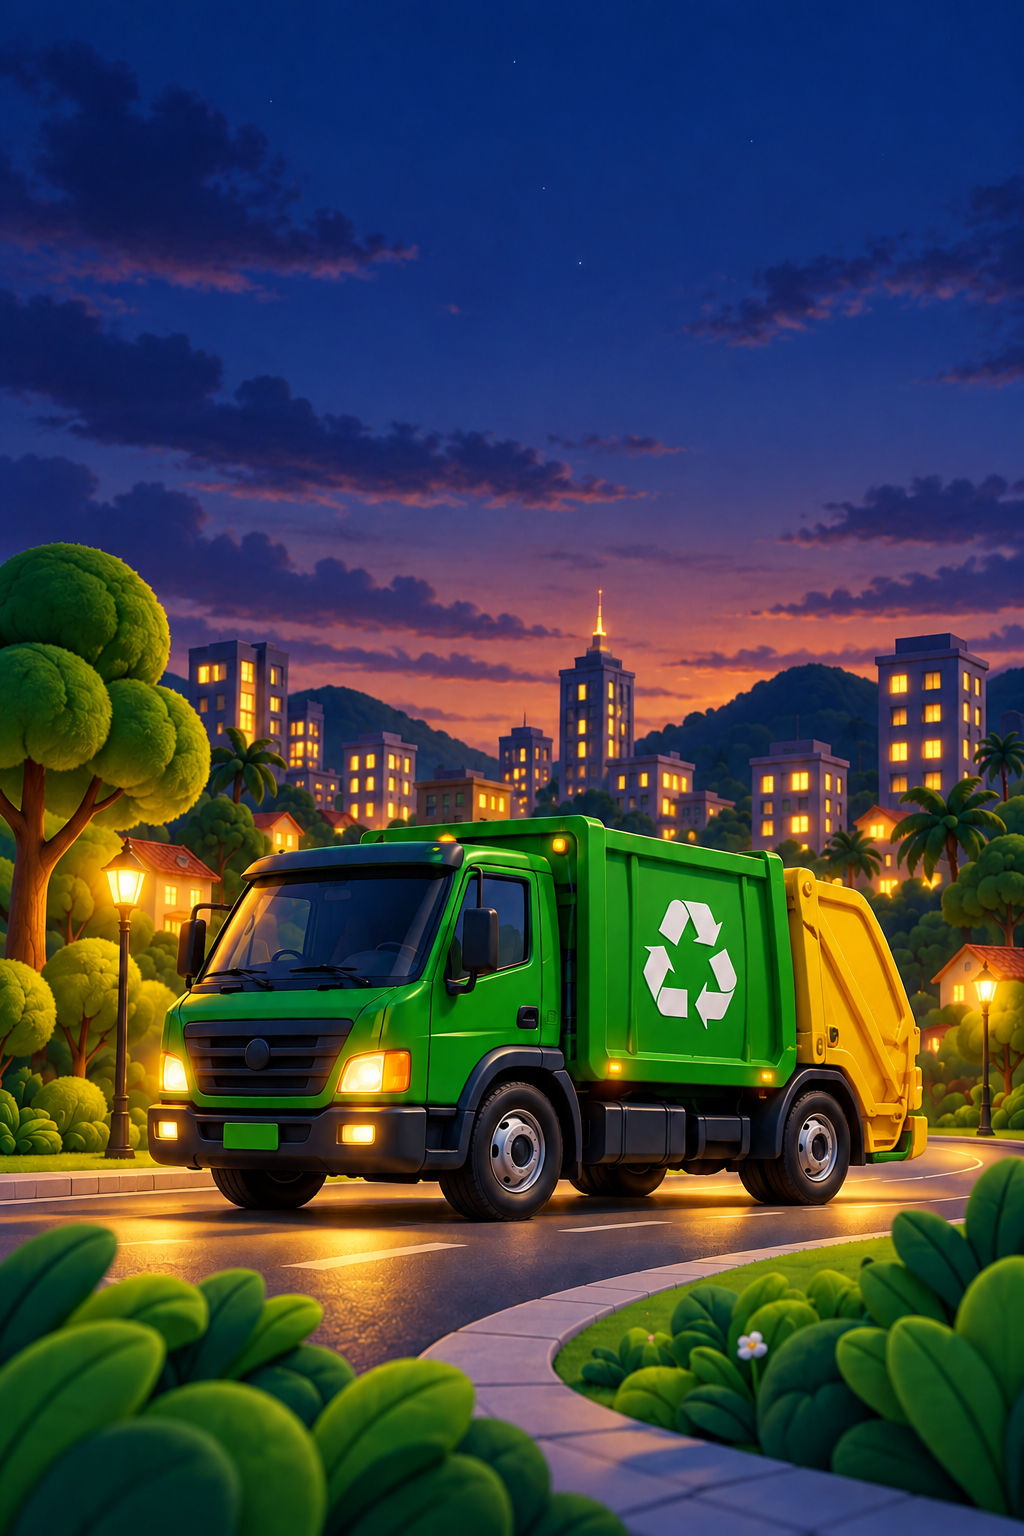
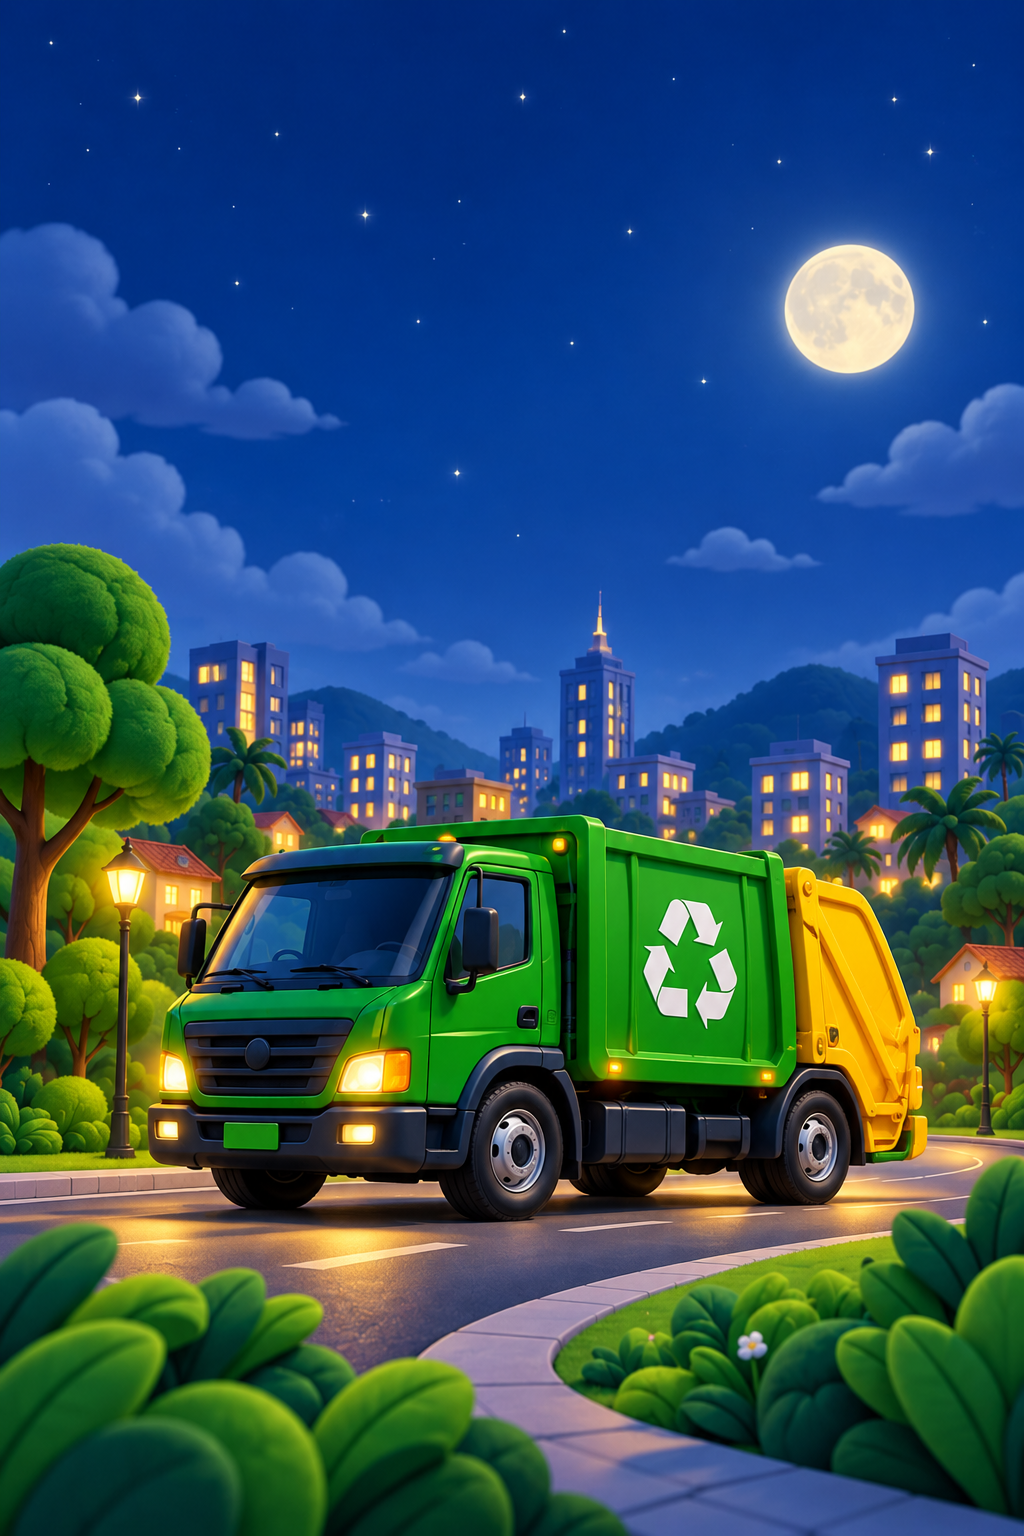
Keep 6 PM twilight and fade to supplied night scenery at 7 PM (#12)
* Use supplied full-night scenery from 7 PM Philippine time

* Record verified twilight and night previews

---------

diff --git a/flutter_sundo/test/time_theme_test.dart b/flutter_sundo/test/time_theme_test.dart
@@ -65,14 +65,17 @@ void main() {
       (15, 0, SundoDayPeriod.afternoon, SundoEnvironment.noon),
       (16, 59, SundoDayPeriod.afternoon, SundoEnvironment.noon),
       (17, 0, SundoDayPeriod.afternoon, SundoEnvironment.sunset),
-      (18, 0, SundoDayPeriod.evening, SundoEnvironment.night),
+      (18, 0, SundoDayPeriod.evening, SundoEnvironment.twilight),
       (23, 59, SundoDayPeriod.evening, SundoEnvironment.night),
     ];
     for (final (hour, minute, period, environment) in cases) {
       final mood = SundoTimeMood(DateTime(2026, 10, 5, hour, minute));
       expect(mood.period, period, reason: '$hour:$minute');
       expect(mood.environment, environment, reason: '$hour:$minute');
-      expect(mood.isNight, environment == SundoEnvironment.night);
+      expect(
+          mood.isNight,
+          environment == SundoEnvironment.night ||
+              environment == SundoEnvironment.twilight);
       expect(
           mood.greeting,
           hour < 12
@@ -169,9 +172,149 @@ void main() {
         SundoEnvironment.sunset);
     final afterSunset = SundoTimeMood.fromInstant(sunset);
     expect(afterSunset.isNight, isTrue);
-    expect(afterSunset.environment, SundoEnvironment.night);
+    expect(afterSunset.environment, SundoEnvironment.twilight);
     // Local sunset can precede 6 PM: the afternoon greeting must not keep a sun.
     expect(afterSunset.greeting, 'Good Afternoon');
+  });
+
+  test('dark night starts at 7 PM and lasts until calculated sunrise', () {
+    final midnight = _phInstant(2026, 10, 7);
+    final sunrise =
+        midnight.add(SundoTimeMood.fromInstant(midnight).daylight.sunrise);
+    final cases = <(DateTime, bool)>[
+      (_phInstant(2026, 10, 7, 18), false),
+      (
+        _phInstant(2026, 10, 7, 18, 59, 59)
+            .add(const Duration(milliseconds: 999)),
+        false
+      ),
+      (_phInstant(2026, 10, 7, 19), true),
+      (_phInstant(2026, 10, 7, 23, 59, 59), true),
+      (midnight, true),
+      (sunrise.subtract(const Duration(microseconds: 1)), true),
+      (sunrise, false),
+      (_phInstant(2026, 10, 7, 12), false),
+      (_phInstant(2026, 10, 7, 17), false),
+    ];
+    for (final (instant, expected) in cases) {
+      final mood = SundoTimeMood.fromInstant(instant);
+      expect(mood.isDarkNight, expected,
+          reason: 'Philippine time ${mood.localTime}');
+      final rainy = SundoTimeMood(mood.now,
+          philippineTime: mood.localTime,
+          daylight: mood.daylight,
+          raining: true);
+      expect(rainy.isDarkNight, expected,
+          reason: 'Rain must retain the same dark-night timing.');
+    }
+    expect(
+        SundoTimeMood.fromInstant(_phInstant(2026, 10, 7, 18)).isNight, isTrue,
+        reason: 'The existing 6 PM scene is nighttime twilight.');
+    expect(SundoTimeMood.fromInstant(sunrise).isNight, isFalse);
+  });
+
+  test('7 PM dark-night boundary follows Philippine time in every timezone',
+      () {
+    for (final stamp in [
+      '2026-10-07T11:00:00Z',
+      '2026-10-07T19:00:00+08:00',
+      '2026-10-07T07:00:00-04:00',
+    ]) {
+      final mood = SundoTimeMood.fromInstant(DateTime.parse(stamp));
+      expect(mood.localTime.hour, 19);
+      expect(mood.localTime.day, 7);
+      expect(mood.isDarkNight, isTrue);
+    }
+    for (final stamp in [
+      '2026-10-07T10:59:59.999Z',
+      '2026-10-07T18:59:59.999+08:00',
+      '2026-10-07T06:59:59.999-04:00',
+    ]) {
+      final mood = SundoTimeMood.fromInstant(DateTime.parse(stamp));
+      expect(mood.localTime.hour, 18);
+      expect(mood.isNight, isTrue);
+      expect(mood.isDarkNight, isFalse);
+    }
+  });
+
+  test('scenery identity changes at 7 PM and stays stable across midnight',
+      () {
+    for (final raining in [false, true]) {
+      SundoTimeMood at(int day, int hour, [int minute = 0]) {
+        final mood = SundoTimeMood.fromInstant(
+            _phInstant(2026, 10, day, hour, minute));
+        return SundoTimeMood(mood.now,
+            philippineTime: mood.localTime,
+            daylight: mood.daylight,
+            raining: raining);
+      }
+
+      final twilight = at(7, 18);
+      final beforeDark = at(7, 18, 59);
+      final dark = at(7, 19);
+      final beforeMidnight = at(7, 23, 59);
+      final midnight = at(8, 0);
+      expect(beforeDark.sceneryIdentity, twilight.sceneryIdentity);
+      expect(dark.sceneryIdentity, isNot(twilight.sceneryIdentity));
+      expect(
+          twilight.environment,
+          raining ? SundoEnvironment.rainyNight : SundoEnvironment.twilight);
+      expect(dark.environment,
+          raining ? SundoEnvironment.rainyNight : SundoEnvironment.night);
+      expect(dark.period, twilight.period);
+      expect(dark.greeting, twilight.greeting);
+      expect(dark.weatherCondition, twilight.weatherCondition);
+      expect(midnight.sceneryIdentity, beforeMidnight.sceneryIdentity);
+      expect(midnight.sceneryIdentity, dark.sceneryIdentity);
+      expect(midnight.greeting, 'Good Morning');
+    }
+  });
+
+  testWidgets('minute ticker darkens at 7 PM without changing weather or greeting',
+      (tester) async {
+    var clock = _phInstant(2026, 10, 7, 18, 59, 55);
+    final weather = SipalayWeather(
+      validAt: clock,
+      fetchedAt: clock,
+      weatherCode: 0,
+      precipitationMm: 0,
+      rainMm: 0,
+      showersMm: 0,
+    );
+    final container = ProviderContainer(overrides: [
+      sundoClockProvider.overrideWithValue(() => clock),
+      sundoWeatherProvider.overrideWith(() => _FixedWeatherController(weather)),
+    ]);
+    addTearDown(container.dispose);
+    final previous = container.read(sundoDayNightThemeProvider);
+    expect(previous.isDarkNight, isFalse);
+    var updates = 0;
+    final subscription = container.listen(sundoDayNightThemeProvider,
+        (previous, next) => updates++);
+    clock = clock.add(const Duration(seconds: 4));
+    await tester.pump(const Duration(seconds: 4));
+    expect(container.read(sundoDayNightThemeProvider).isDarkNight, isFalse);
+    expect(updates, 0);
+    clock = clock.add(const Duration(seconds: 1));
+    await tester.pump(const Duration(seconds: 1));
+    final dark = container.read(sundoDayNightThemeProvider);
+    expect(dark.localTime.hour, 19);
+    expect(dark.isDarkNight, isTrue);
+    expect(updates, 1);
+    expect(previous.environment, SundoEnvironment.twilight);
+    expect(dark.environment, SundoEnvironment.night);
+    expect(dark.isNight, previous.isNight);
+    expect(dark.greeting, previous.greeting);
+    expect(dark.weatherCondition, previous.weatherCondition);
+    expect(dark.weather, same(weather));
+    expect(dark.sceneryIdentity, isNot(previous.sceneryIdentity));
+    expect(
+        SundoTimeScope(mood: dark, child: const SizedBox.shrink())
+            .updateShouldNotify(SundoTimeScope(
+                mood: previous, child: const SizedBox.shrink())),
+        isTrue);
+    subscription.close();
+    container.dispose();
   });
 
   test('resolved solar area survives unavailable or expired weather', () {

diff --git a/flutter_sundo/test/background_composition_test.dart b/flutter_sundo/test/background_composition_test.dart
@@ -330,6 +330,72 @@ void main() {
     });
   }
 
+  testWidgets('six PM twilight fades to the supplied full night at seven',
+      (tester) async {
+    tester.view.physicalSize = const Size(390, 844);
+    tester.view.devicePixelRatio = 1;
+    addTearDown(tester.view.resetPhysicalSize);
+    addTearDown(tester.view.resetDevicePixelRatio);
+    final boundary = GlobalKey();
+    final twilight = SundoTimeMood(DateTime(2026, 10, 7, 18));
+    final night = SundoTimeMood(DateTime(2026, 10, 7, 19));
+    await tester.pumpWidget(_surface(twilight, boundary: boundary));
+    await _waitForScene(tester, twilight.environment);
+    await tester.pump(const Duration(milliseconds: 950));
+    final twilightImage = tester.widget<Image>(find.byType(Image));
+    final geometry = tester.getRect(find.byType(Image));
+    final before = await _capturePixels(tester, boundary);
+    await tester.pumpWidget(_surface(night, boundary: boundary));
+    await _waitForScene(tester, night.environment);
+    await tester.pump(const Duration(milliseconds: 450));
+    expect(_displayedScenes(tester),
+        [SundoEnvironment.twilight, SundoEnvironment.night]);
+    for (final image in tester.widgetList<Image>(find.byType(Image))) {
+      expect(tester.getRect(find.byWidget(image)), geometry);
+      expect(image.fit, twilightImage.fit);
+      expect(image.alignment, twilightImage.alignment);
+    }
+    await tester.pump(const Duration(milliseconds: 500));
+    expect(_displayedScenes(tester), [SundoEnvironment.night]);
+    final fullNightImage = tester.widget<Image>(find.byType(Image));
+    expect((twilightImage.image as AssetImage).assetName,
+        'assets/images/environment-twilight.webp');
+    expect((fullNightImage.image as AssetImage).assetName,
+        'assets/images/environment-night.webp');
+    final after = await _capturePixels(tester, boundary);
+    // Source horizon (450, 660) maps to (160, 363) with cover/bottomCenter.
+    // The former orange sunset glow must become blue night sky.
+    const offset = (363 * 390 + 160) * 4;
+    expect(before[offset], greaterThan(before[offset + 2]));
+    expect(after[offset + 2], greaterThan(after[offset] * 1.5));
+    expect(tester.takeException(), isNull);
+    await tester.pumpWidget(const SizedBox.shrink());
+  });
+
+  testWidgets('late seven PM artwork decodes before replacing twilight',
+      (tester) async {
+    final twilight = SundoTimeMood(DateTime(2026, 10, 7, 18, 59));
+    final night = SundoTimeMood(DateTime(2026, 10, 7, 19));
+    final bundle = _DeferredSceneBundle();
+    final nightAsset = sundoEnvironmentArtwork(night.environment);
+    bundle.defer(nightAsset);
+    await tester.pumpWidget(_surface(twilight, bundle: bundle));
+    await _waitForScene(tester, twilight.environment);
+    await tester.pump(const Duration(milliseconds: 950));
+    await tester.pumpWidget(_surface(night, bundle: bundle));
+    await tester.pump(const Duration(seconds: 2));
+    expect(_displayedScenes(tester), [SundoEnvironment.twilight]);
+    await _releaseScene(tester, bundle, nightAsset);
+    await _waitForScene(tester, night.environment);
+    await tester.pump(const Duration(milliseconds: 450));
+    expect(_displayedScenes(tester),
+        [SundoEnvironment.twilight, SundoEnvironment.night]);
+    await tester.pump(const Duration(milliseconds: 500));
+    expect(_displayedScenes(tester), [SundoEnvironment.night]);
+    expect(tester.takeException(), isNull);
+    await tester.pumpWidget(const SizedBox.shrink());
+  });
+
   testWidgets('wet night is darker while retaining the exact wet-day image',
       (tester) async {
     tester.view.physicalSize = const Size(390, 844);

diff --git a/flutter_sundo/lib/core/theme/time_theme.dart b/flutter_sundo/lib/core/theme/time_theme.dart
@@ -6,7 +6,7 @@ import 'solar_daylight.dart';
 
 enum SundoDayPeriod { morning, noon, afternoon, evening }
 
-enum SundoEnvironment { morning, noon, sunset, night, rainy, rainyNight }
+enum SundoEnvironment { morning, noon, sunset, twilight, night, rainy, rainyNight }
 
 class SundoTimeMood {
   final DateTime now;
@@ -77,7 +77,7 @@ class SundoTimeMood {
   SundoEnvironment get environment => raining
       ? (isNight ? SundoEnvironment.rainyNight : SundoEnvironment.rainy)
       : isNight
-          ? SundoEnvironment.night
+          ? (isDarkNight ? SundoEnvironment.night : SundoEnvironment.twilight)
           : isSunset
               ? SundoEnvironment.sunset
               : period == SundoDayPeriod.morning
@@ -85,6 +85,11 @@ class SundoTimeMood {
                   : SundoEnvironment.noon;
   bool get isNight =>
       _timeOfDay < daylight.sunrise || _timeOfDay >= daylight.sunset;
+
+  /// Keep the supplied twilight artwork through 6 PM. The full-night image
+  /// starts at 7 PM and remains in use before the next local sunrise.
+  bool get isDarkNight =>
+      isNight && (localTime.hour >= 19 || _timeOfDay < daylight.sunrise);
   String get greeting => localTime.hour < 12
       ? 'Good Morning'
       : localTime.hour >= 12 && localTime.hour < 18
@@ -121,7 +126,7 @@ class SundoTimeMood {
   // Lighting is part of the scene identity, including cloudy-to-clear changes
   // that use the same illustration and rainy changes at a time boundary.
   Object get sceneryIdentity =>
-      (environment, period, isSunset, weatherCondition);
+      (environment, period, isSunset, isDarkNight, weatherCondition);
 }
 
 final sundoClockProvider = Provider<DateTime Function()>((ref) => DateTime.now);

diff --git a/flutter_sundo/lib/features/splash/splash_screen.dart b/flutter_sundo/lib/features/splash/splash_screen.dart
@@ -157,7 +157,8 @@ class _SplashScreenState extends State<SplashScreen> {
       ));
 }
 
-/// The supplied night scene already has stars and lights. This moon is placed
+/// Twilight uses the existing small moon. The supplied later-night scene has
+/// its own moon, so no extra moon is painted over it. This moon is placed
 /// in its sky coordinates, beneath the fixed branding plate, and never changes
 /// the truck, road, vegetation or camera framing.
 class _NightMoon extends StatelessWidget {
@@ -167,7 +168,7 @@ class _NightMoon extends StatelessWidget {
   @override
   Widget build(BuildContext context) => IgnorePointer(
       child: AnimatedOpacity(
-          opacity: environment == SundoEnvironment.night ? 1 : 0,
+          opacity: environment == SundoEnvironment.twilight ? 1 : 0,
           duration: MediaQuery.disableAnimationsOf(context)
               ? Duration.zero
               : const Duration(milliseconds: 900),

diff --git a/flutter_sundo/test/splash_environment_test.dart b/flutter_sundo/test/splash_environment_test.dart
@@ -21,6 +21,7 @@ final _environments = <String, SundoTimeMood>{
   'morning': SundoTimeMood(DateTime(2026, 10, 5, 8)),
   'noon': SundoTimeMood(DateTime(2026, 10, 5, 12, 30)),
   'sunset': SundoTimeMood(DateTime(2026, 10, 5, 17)),
+  'twilight': SundoTimeMood(DateTime(2026, 10, 5, 18)),
   'night': SundoTimeMood(DateTime(2026, 10, 5, 20)),
   'rainy': SundoTimeMood(DateTime(2026, 10, 5, 14), raining: true),
   'rainy-night': SundoTimeMood(DateTime(2026, 10, 5, 19, 10),
@@ -268,7 +269,7 @@ void main() {
       }
       return result;
     });
-    expect(dimensions, hasLength(5));
+    expect(dimensions, hasLength(6));
     expect(dimensions!.toSet(), hasLength(1));
     expect(dimensions.first.aspectRatio, closeTo(2 / 3, .001));
   });

diff --git a/flutter_sundo/lib/shared/widgets/time_based_background.dart b/flutter_sundo/lib/shared/widgets/time_based_background.dart
@@ -2,7 +2,7 @@ import 'package:flutter/material.dart';
 import '../../core/theme/time_theme.dart';
 import '../../repositories/weather_repository.dart';
 
-/// All five illustrations use the same camera, truck and city composition.
+/// All supplied illustrations use the same camera, truck and city composition.
 String sundoEnvironmentArtwork(SundoEnvironment environment) =>
     // The wet-night variant reuses the matching rainy scene. Its lighting is
     // applied to scenery alone, preserving the original truck and city pixels.

diff --git a/DESIGN_NOTES.md b/DESIGN_NOTES.md
@@ -55,10 +55,11 @@ The user supplied five matching 1024 × 1536 PNG scenes. They are converted to l
 | Morning | `ChatGPT Image Oct 5, 2026, 07_07_06 PM-1.png` | `flutter_sundo/assets/images/environment-morning.webp` |
 | Noon | `ChatGPT Image Oct 5, 2026, 07_07_09 PM-2.png` | `flutter_sundo/assets/images/environment-noon.webp` |
 | Sunset | `ChatGPT Image Oct 5, 2026, 07_07_11 PM-3.png` | `flutter_sundo/assets/images/environment-sunset.webp` |
-| Night | `ChatGPT Image Oct 5, 2026, 07_07_14 PM-4.png` | `flutter_sundo/assets/images/environment-night.webp` |
+| Evening twilight | `ChatGPT Image Oct 5, 2026, 07_07_14 PM-4.png` | `flutter_sundo/assets/images/environment-twilight.webp` |
+| Full night, from 7 PM | `codex-clipboard-9db0f97a-1741-4cf9-8736-0a35eeb7f4b2.png` (user attachment) | `flutter_sundo/assets/images/environment-night.webp` |
 | Rainy | `ChatGPT Image Oct 5, 2026, 07_07_15 PM-5.png` | `flutter_sundo/assets/images/environment-rainy.webp` |
 
-Every variant uses the same fit and alignment. Splash uses `BoxFit.fitWidth` to retain the supplied truck's full cab and tail. On taller phones, the last 48 pixels of the illustration blend into the surrounding surface so the image cannot end in a hard horizontal cut beside the card. The fixed branding plate follows the existing text layout, including accessibility text scaling. A small night-only moon is drawn in the supplied sky coordinates beneath that plate; the truck image is not edited. The branding plate can cover that sky position on compact phones.
+Every variant uses the same fit and alignment. Splash uses `BoxFit.fitWidth` to retain the supplied truck's full cab and tail. On taller phones, the last 48 pixels of the illustration blend into the surrounding surface so the image cannot end in a hard horizontal cut beside the card. The fixed branding plate follows the existing text layout, including accessibility text scaling. Twilight retains its small painted moon beneath that plate. Full night uses only the moon already in the supplied artwork; no duplicate moon is added. The branding plate can cover the artwork's higher moon on compact phones.
 
 Other resident screens receive an edge-to-edge scene through a continuous alpha mask; the previous 220 px illustration band and duplicated Home header/footer image strips are removed. In the 1.4.0 release, this shared backdrop is softer, reaching approximately 22% illustration opacity at its strongest point, so forms, schedules, notifications, reports and profile content remain readable. Splash and welcome retain their stronger illustration treatment. Home's header is content-driven and the demo banner's status inset is not applied a second time. System-bar icon colors follow the time theme, with a fixed dark-icon override on the splash's light branding plate.
 
@@ -67,6 +68,8 @@ Version 1.5.7 uses **Philippine Standard Time (UTC+8)** independently of the pho
 The clock refreshes each minute and on resume. Decoded scenery and its underlay use the existing 900 ms fade; reduced-motion settings switch immediately. Pending/failed images retain suitable existing scenery, but obsolete daylight/night or expired rain falls back to the current mood's neutral surface until matching artwork decodes. Superseded image requests cannot replace the current scene, and delayed first frames apply the latest lighting.
 
 Version 1.5.8 gives inner-page backgrounds a faint yellow/cream sunset wash from **5 PM** until local sunset, with a muted warm variant for rain. The shared inner surface fades over 900 ms and updates from the current clock even if the next illustration is pending. Card surfaces, the functional map, and full-scene Splash/Welcome backgrounds retain their existing treatment.
+
[1 lines of base64/hex data omitted]
 
 The 1.4.0 release keeps rain and time together. Morning rain has a cool morning treatment; afternoon rain has a warmer treatment; evening/night rain uses dark blue wet scenery. Cloudy conditions use muted lighting, and thunderstorm conditions use the wet scene. These are native color filters over the same supplied rainy/day scenes, rather than newly generated trucks or different city compositions. The filter affects illustration pixels only; the logo, wordmark, subtitle, card, controls and actual map tiles are outside it.
 
@@ -82,7 +85,7 @@ Requests recur every 15 minutes while the app is in the foreground; backgroundin
 
 Weather data by [Open-Meteo](https://open-meteo.com/), [CC BY 4.0](https://open-meteo.com/en/licence). SUNDO transforms current conditions into an artwork/lighting choice; the keyless endpoint is subject to [noncommercial API terms](https://open-meteo.com/en/terms). Linked weather attribution sits in the existing space below the splash card and in Profile's About dialog; it does not move the slogan card.
 
-Run `node scripts/package-environment-assets.mjs C:/Users/User/Downloads` to package the five supplied files. The script validates their common dimensions and compares decoded RGBA pixels after conversion. Current asset checks confirm all five WebP files preserve the original decoded pixels and both logo files retain their original SHA-256.
+Run `node scripts/package-environment-assets.mjs C:/Users/User/Downloads` to package the original five supplied files, including twilight. Add the new full-night PNG path as the third argument to package all six. The script validates their common dimensions and compares decoded RGBA pixels after conversion. Both logo files retain their original SHA-256.
 
 ### Natural leaf asset provenance
 

diff --git a/MOBILE_STATUS.md b/MOBILE_STATUS.md
@@ -1,5 +1,28 @@
 # SUNDO mobile status
 
+## Version 1.5.9 evening twilight and full night
+
+The former night image is preserved byte-for-byte as evening twilight and is
+still used at 6 PM. Clear/time-only scenery selects the new user-supplied
+blue moon-and-stars artwork from exactly 7 PM Philippine time until local
+sunrise. The original decode gating and 900 ms fade handle the change.
+Rain retains its existing rainy-night artwork and lighting.
+
+The new 1024 x 1536 image was packaged losslessly and verified against the
+source PNG's decoded pixels. Splash paints its extra small moon only during
+twilight, avoiding a duplicate moon over the new artwork. Branding, leaves,
+card and scenery framing remain fixed; the existing branding plate may cover
+the artwork's higher moon on compact phones. Greeting wording, the 5 PM warm
+inner surface, weather provider and functional map behavior are unchanged.
+
+Android version is **1.5.9+17**. The local Dart executable is blocked by this
+computer's Device Guard policy; validation and compilation use the existing
+GitHub workflow. Run `37633389830` succeeded: Flutter analysis reports no
+issues, all **305 tests passed**, the APK compiled and native previews rendered.
+The actual 6 PM and 7 PM Splash previews were reviewed with branding and leaf
+placements preserved. Installer TypeScript checks and production compilation
+pass. Publication uses local signing with the established update certificate.
+
 ## Version 1.5.8 inner sunset tint
 
 Inner-page backgrounds acquire a faint warm yellow/cream wash from 5 PM until
